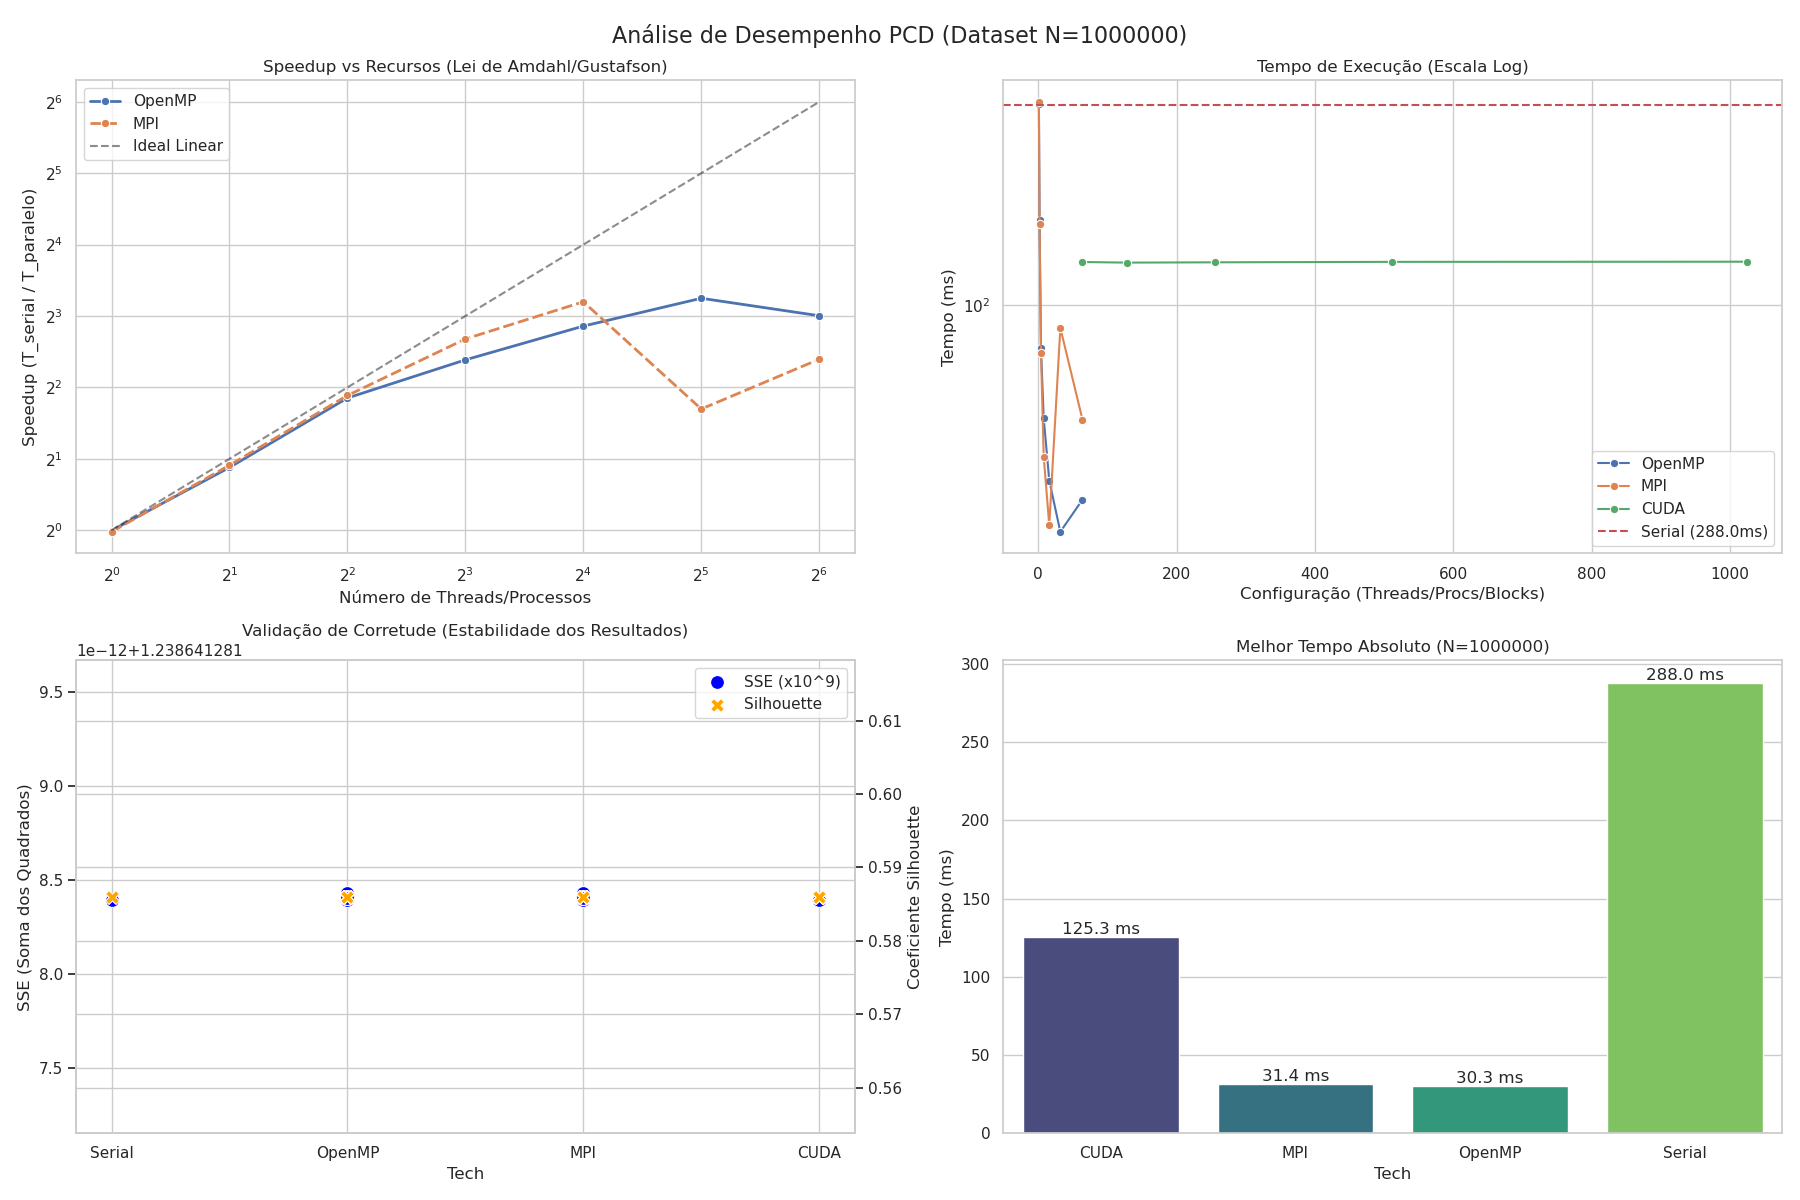
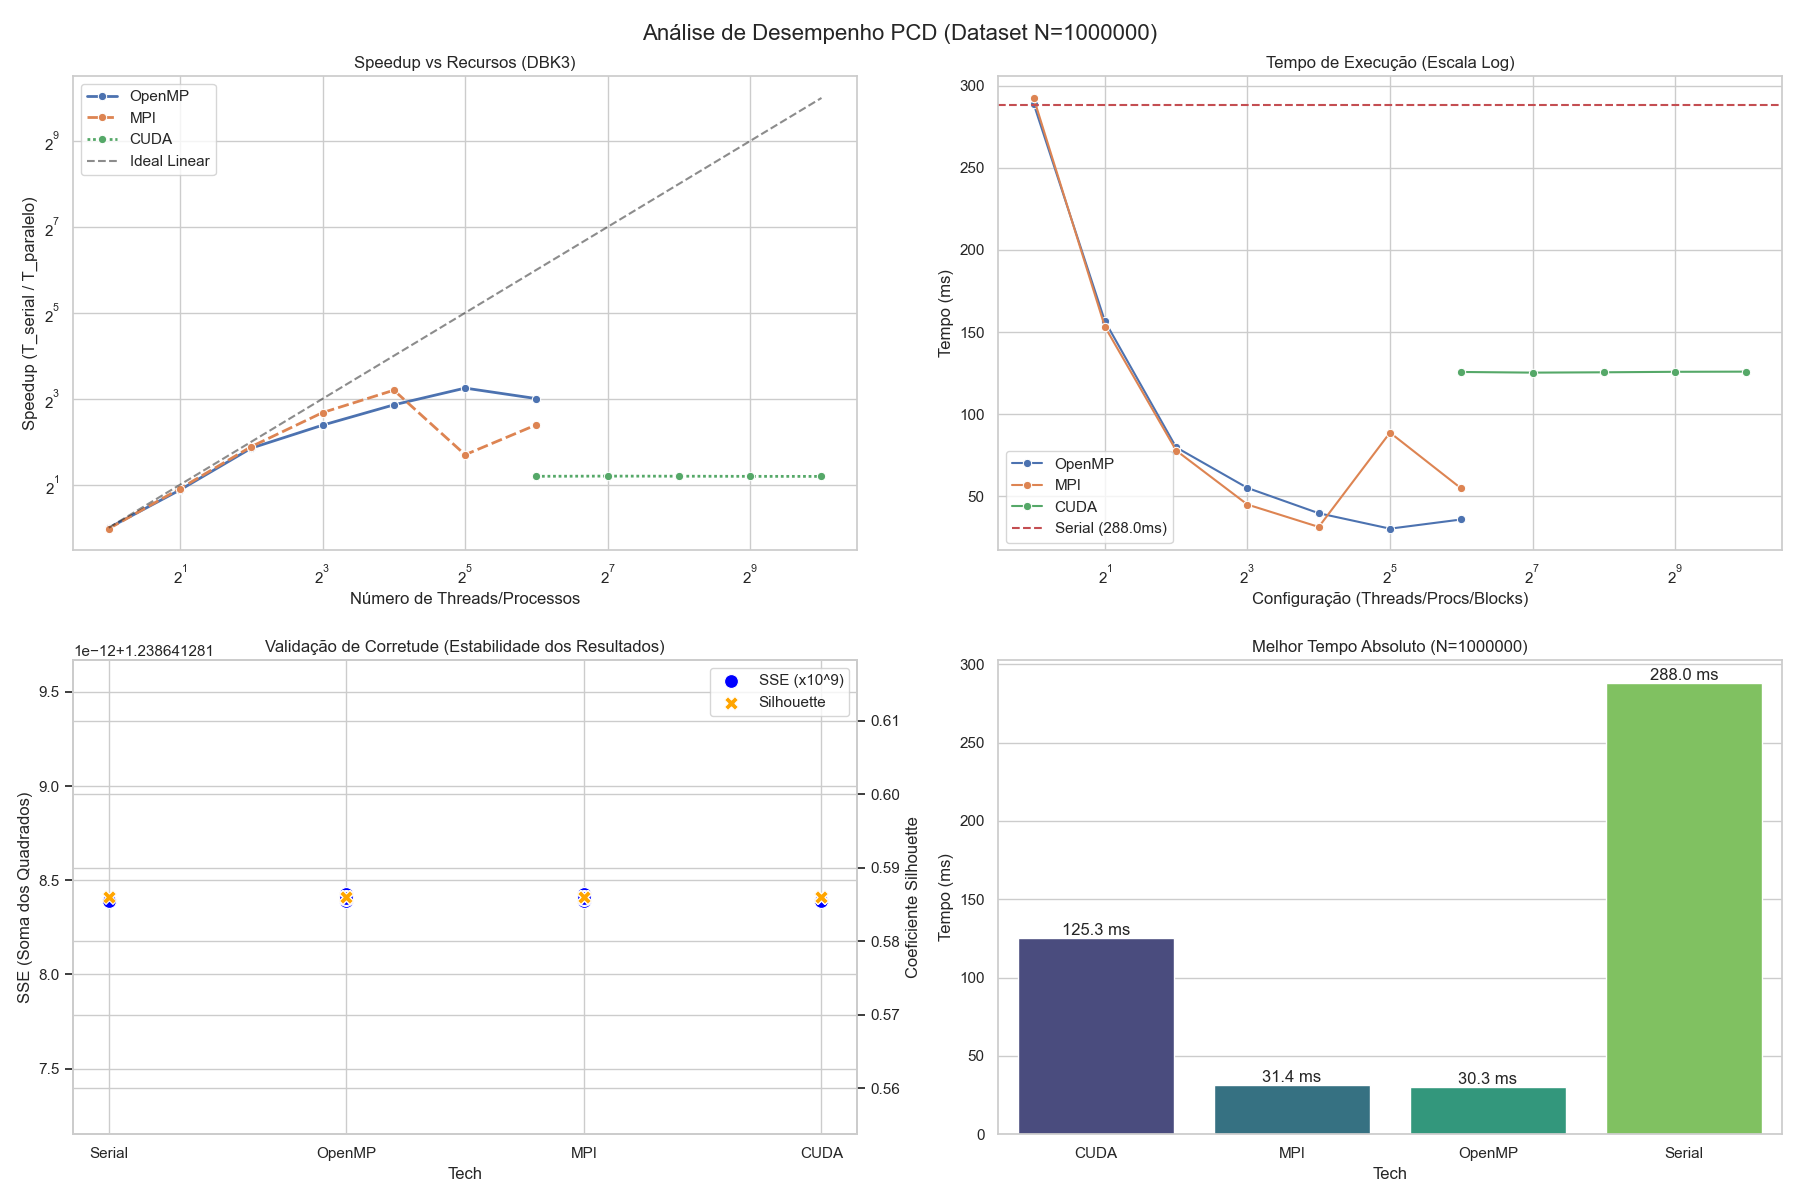
added cuda analysis and plots for overnight dataset

diff --git a/results/plot_cuda_breakdown.py b/results/plot_cuda_breakdown.py
@@ -4,7 +4,7 @@ import matplotlib.pyplot as plt
 import seaborn as sns
 import numpy as np
 
-# Cole o conteúdo COMPLETO do seu arquivo txt aqui
+# Cole o conteúdo COMPLETO do seu arquivo txt aqui (mesmo do plot_results_overnight.py)
 raw_data = """
 === RELATÓRIO FINAL DE EXPERIMENTOS PCD ===
 Inicio: Thu Dec 11 06:57:30 PM -03 2025
@@ -624,255 +624,131 @@ Configuração N=1000000 finalizada.
 Experimentos concluídos. Verifique results/final_results_overnight_20251211_185730.txt
 """
 
-
-def parse_report(text):
+def parse_cuda_timings(text):
+    """
+    Extrai os tempos H2D, Kernel e D2H das execuções CUDA
+    """
     data = []
-    current_n = 0
-    current_tech = None
-    current_config = 0
+    current_n = None
+    current_block = None
     
     lines = text.split('\n')
     
-    for line in lines:
+    for i, line in enumerate(lines):
         line = line.strip()
         
-        # Regex Parsers
+        # Detecta o dataset atual
         dataset_match = re.search(r"DATASET: N=(\d+)", line)
         if dataset_match:
             current_n = int(dataset_match.group(1))
             continue
-            
-        serial_match = re.search(r"-> \[SERIAL\]", line)
-        if serial_match:
-            current_tech = "Serial"
-            current_config = 1
+        
+        # Detecta o block size
+        block_match = re.search(r"Running CUDA with Block Size = (\d+)", line)
+        if block_match:
+            current_block = int(block_match.group(1))
             continue
-            
-        omp_match = re.search(r"Running OMP with (\d+) threads", line)
-        if omp_match:
-            current_tech = "OpenMP"
-            current_config = int(omp_match.group(1))
-            continue
-            
-        mpi_match = re.search(r"Running MPI with (\d+) processes", line)
-        if mpi_match:
-            current_tech = "MPI"
-            current_config = int(mpi_match.group(1))
-            continue
-            
-        cuda_match = re.search(r"Running CUDA with Block Size = (\d+)", line)
-        if cuda_match:
-            current_tech = "CUDA"
-            current_config = int(cuda_match.group(1))
-            continue
-            
-        # Extração de Métricas
-        # Padrão para SSE (comum a todos)
-        sse_match = re.search(r"SSE final: ([\d.]+)", line)
         
-        # Padrão para Tempo (Serial/OMP ficam na mesma linha ou próxima ao SSE)
-        time_simple_match = re.search(r"Tempo: ([\d.]+) ms", line)
+        # Captura os tempos (H2D, Kernel, D2H)
+        h2d_match = re.search(r"Tempo H2D \(cópias C\):\s+([\d.]+) ms", line)
+        kernel_match = re.search(r"Tempo Kernel \(GPU\):\s+([\d.]+) ms", line)
+        d2h_match = re.search(r"Tempo D2H \(cópias A\):\s+([\d.]+) ms", line)
         
-        # Padrão para Tempo MPI/CUDA (mais explícito)
-        time_full_match = re.search(r"Tempo Total K-means:\s+([\d.]+) ms", line)
-        
-        # Padrão para Silhouette
-        sil_match = re.search(r"Coeficiente silhouette médio: ([\d.]+)", line)
-        
-        # Lógica de inserção
-        # Nota: O Serial tem "Tempo: X" na linha de SSE e "Tempo: Y" na linha Silhouette.
-        # Queremos o Tempo do K-means (linha SSE)
-        
-        if sse_match:
-            sse_val = float(sse_match.group(1))
+        if h2d_match and current_n and current_block:
+            h2d_time = float(h2d_match.group(1))
             
-            # Se for Serial ou OpenMP, o tempo costuma estar nesta mesma linha
-            if current_tech in ["Serial", "OpenMP"] and time_simple_match:
-                time_val = float(time_simple_match.group(1))
-                # Silhouette geralmente vem na próxima linha, inicializamos como None
+            # Próximas linhas devem conter Kernel e D2H
+            kernel_time = None
+            d2h_time = None
+            
+            for j in range(i+1, min(i+5, len(lines))):
+                next_line = lines[j].strip()
+                if not kernel_time:
+                    km = re.search(r"Tempo Kernel \(GPU\):\s+([\d.]+) ms", next_line)
+                    if km:
+                        kernel_time = float(km.group(1))
+                if not d2h_time:
+                    dm = re.search(r"Tempo D2H \(cópias A\):\s+([\d.]+) ms", next_line)
+                    if dm:
+                        d2h_time = float(dm.group(1))
+                        
+            if kernel_time is not None and d2h_time is not None:
                 data.append({
-                    "N": current_n, "Tech": current_tech, "Config": current_config, 
-                    "Time_ms": time_val, "SSE": sse_val, "Silhouette": None
+                    'N': current_n,
+                    'BlockSize': current_block,
+                    'H2D': h2d_time,
+                    'Kernel': kernel_time,
+                    'D2H': d2h_time
                 })
-            # MPI e CUDA capturamos o SSE, mas o tempo vem depois
-            elif current_tech in ["MPI", "CUDA"]:
-                 data.append({
-                    "N": current_n, "Tech": current_tech, "Config": current_config, 
-                    "Time_ms": None, "SSE": sse_val, "Silhouette": None
-                })
-
-        # Preenchendo dados faltantes (Tempo MPI/CUDA ou Silhouette)
-        if time_full_match and current_tech in ["MPI", "CUDA"]:
-            # Atualiza o último registro adicionado
-            if data and data[-1]["Tech"] == current_tech:
-                data[-1]["Time_ms"] = float(time_full_match.group(1))
-                
-        if sil_match:
-            if data:
-                data[-1]["Silhouette"] = float(sil_match.group(1))
-
+    
     return pd.DataFrame(data)
 
-def process_data(df):
-    # Calcular Speedup
-    # Speedup = Tempo_Serial / Tempo_Paralelo (para o mesmo N)
-    df['Speedup'] = 0.0
+def plot_cuda_breakdown_with_std(df):
+    """
+    Gera 3 subplots (um por dataset) mostrando H2D, Kernel e D2H
+    com barras de erro representando o desvio padrão entre diferentes block sizes
+    """
+    sns.set_theme(style="whitegrid")
     
-    # Isolar tempos seriais
-    serial_times = df[df['Tech'] == 'Serial'].set_index('N')['Time_ms'].to_dict()
+    datasets = sorted(df['N'].unique())
+    fig, axes = plt.subplots(1, 3, figsize=(18, 6))
+    fig.suptitle('CUDA K-means: Breakdown de Tempo por Componente (H2D, Kernel, D2H)', fontsize=16)
     
-    for index, row in df.iterrows():
-        n = row['N']
-        if n in serial_times and row['Time_ms'] > 0:
-            df.at[index, 'Speedup'] = serial_times[n] / row['Time_ms']
-            
-    return df
-
-def generate_speedup_plot(df, ax):
-    subset_speedup = df[df['Tech'].isin(['OpenMP', 'MPI', 'CUDA'])]
-    
-    sns.lineplot(data=subset_speedup, x='Config', y='Speedup', hue='Tech', marker='o', style='Tech', ax=ax, linewidth=2)
-    
-    # Linha Ideal
-    min_config = subset_speedup['Config'].min()
-    max_config = subset_speedup['Config'].max()
-    ax.plot([min_config, max_config], [min_config, max_config], 'k--', alpha=0.5, label='Ideal Linear')
-    
-    ax.set_title('Speedup vs Recursos (DBK{N})'.format(N=int(np.log10(df['N'].iloc[0])-3)))
-    ax.set_xlabel('Número de Threads/Processos')
-    ax.set_ylabel('Speedup (T_serial / T_paralelo)')
-    ax.set_xscale('log', base=2)
-    ax.set_yscale('log', base=2)
-    ax.legend()
-
-def generate_execution_time_plot(df, ax):
-    serial_time = df[df['Tech'] == 'Serial']['Time_ms'].values[0]
-    
-    sns.lineplot(data=df[df['Tech'] != 'Serial'], x='Config', y='Time_ms', hue='Tech', marker='o', ax=ax)
-    ax.axhline(y=serial_time, color='r', linestyle='--', label=f'Serial ({serial_time:.1f}ms)')
-    
-    ax.set_title('Tempo de Execução (DBK{N})'.format(N=int(np.log10(df['N'].iloc[0])-3)))
-    ax.set_xlabel('Configuração (Threads/Procs/Blocks)')
-    ax.set_ylabel('Tempo (ms)')
-    ax.set_xscale('log', base=2)
-    ax.legend()
-
-def generate_correctness_plot(df, ax):
-    df['SSE_Scaled'] = df['SSE'] / 1e9
-    
-    # Criar um eixo gêmeo para mostrar Silhouette e SSE juntos
-    ax3 = ax
-    ax3_twin = ax3.twinx()
-    
-    sns.scatterplot(data=df, x='Tech', y='SSE_Scaled', color='blue', s=100, label='SSE (x10^9)', ax=ax3, legend=False)
-    sns.scatterplot(data=df, x='Tech', y='Silhouette', color='orange', marker='X', s=100, label='Silhouette', ax=ax3_twin, legend=False)
-    
-    ax3.set_title('Validação de Corretude (Estabilidade dos Resultados)')
-    ax3.set_ylabel('SSE (Soma dos Quadrados)')
-    ax3_twin.set_ylabel('Coeficiente Silhouette')
-    
-    # Ajustar legendas manuais
-    lines, labels = ax3.get_legend_handles_labels()
-    lines2, labels2 = ax3_twin.get_legend_handles_labels()
-    ax3.legend(lines + lines2, labels + labels2, loc='upper right')
-
-def generate_best_time_plot(df, ax, max_n):
-    best_times = df.loc[df.groupby('Tech')['Time_ms'].idxmin()]
-    
-    barplot = sns.barplot(data=best_times, x='Tech', y='Time_ms', hue='Tech', palette='viridis', ax=ax, legend=False)
-    ax.set_title(f'Melhor Tempo Absoluto (DBK{max_n})')
-    ax.set_ylabel('Tempo (ms)')
-    
-    # Adicionar labels nas barras
-    for container in ax.containers:
-        ax.bar_label(container, fmt='%.1f ms')
-
-def generate_plots(df):
-
-   # Imprime o gráfico para cada tamanho de dataset
-   # plt.figure(figsize=(10, 6))
-   fig, axes = plt.subplots(1, 3, figsize=(15, 6))
-   fig.suptitle('Análise de Speedup vs Recursos por Dataset', fontsize=14)
-   for i in df['N'].unique():
-      idx = int(np.log10(i)-4) 
-      sns.set_theme(style="whitegrid")
-      df_n = df[df['N'] == i].copy()
-      generate_speedup_plot(df_n, axes[idx])
-
-   plt.tight_layout()
-   plt.savefig('speedup_por_dataset.png')
-   plt.show()
-      
-
-   fig, axes = plt.subplots(1, 3, figsize=(15, 6))
-   fig.suptitle('Análise de Tempo de Execução vs Recursos por Dataset', fontsize=14)
-   for i in df['N'].unique():
-      idx = int(np.log10(i)-4) 
-      sns.set_theme(style="whitegrid")
-      df_n = df[df['N'] == i].copy()
-      generate_execution_time_plot(df_n, axes[idx])
-
-   plt.tight_layout()
-   plt.savefig('execution_time_por_dataset.png')
-   plt.show()
-
-   fig, axes = plt.subplots(1, 3, figsize=(15, 6))
-   fig.suptitle('Análise de Melhor Tempo por Dataset', fontsize=14)
-   for i in df['N'].unique():
-      idx = int(np.log10(i)-4) 
-      sns.set_theme(style="whitegrid")
-      df_n = df[df['N'] == i].copy()
-      generate_best_time_plot(df_n, axes[idx], idx)
-
-   plt.tight_layout()
-   plt.savefig('best_time_por_dataset.png')
-   plt.show()
-
-
-   # Configurações visuais
-   # sns.set_theme(style="whitegrid")
-   # # Filtro para o maior Dataset (onde a escalabilidade importa mais)
-   # max_n = df['N'].max()
-   # df_max = df[df['N'] == max_n].copy()
-   
-   # # Criar figura com subplots (2 linhas, 2 colunas)
-   # fig, axes = plt.subplots(2, 2, figsize=(18, 12))
-   # fig.suptitle(f'Análise de Desempenho PCD (Dataset N={max_n})', fontsize=16)
-
-   # # ---------------------------------------------------------
-   # # Gráfico 1: Speedup vs Recursos (OpenMP e MPI)
-   # # ---------------------------------------------------------
-   # # CUDA não entra aqui pois BlockSize não é "Core Count" linear
-   # generate_speedup_plot(df_max, axes[0, 0])
-
-   # # ---------------------------------------------------------
-   # # Gráfico 2: Tempo de Execução vs Configuração (Todas as Techs)
-   # # ---------------------------------------------------------
-   # # Aqui comparamos Serial, OpenMP, MPI e CUDA
-   # # Serial será uma linha horizontal constante
-   # generate_execution_time_plot(df_max, axes[0, 1])
-
-   # # ---------------------------------------------------------
-   # # Gráfico 3: Corretude (SSE e Silhouette)
-   # # ---------------------------------------------------------
-   # # Vamos usar um Scatter plot para mostrar que os valores não variam
-   # # Normalizar SSE para visualização (dividir por 1e9 para N=1M)
-   # generate_correctness_plot(df_max, axes[1, 0])
-
-   # # ---------------------------------------------------------
-   # # Gráfico 4: Melhor Tempo por Tecnologia (Bar Chart)
-   # # ---------------------------------------------------------
-   # # Pegar o menor tempo de cada tecnologia
-   # generate_best_time_plot(df_max, axes[1, 1], max_n)
-
-   # plt.tight_layout()
-   # plt.savefig('pcd_resultados.png')
-   # # plt.show()
+    for idx, n in enumerate(datasets):
+        df_n = df[df['N'] == n]
+        
+        # Calcula média e desvio padrão para cada componente
+        means = {
+            'H2D': df_n['H2D'].mean(),
+            'Kernel': df_n['Kernel'].mean(),
+            'D2H': df_n['D2H'].mean()
+        }
+        
+        stds = {
+            'H2D': df_n['H2D'].std(),
+            'Kernel': df_n['Kernel'].std(),
+            'D2H': df_n['D2H'].std()
+        }
+        
+        # Dados para o barplot
+        components = list(means.keys())
+        mean_values = list(means.values())
+        std_values = list(stds.values())
+        
+        # Cria o barplot com barras de erro
+        ax = axes[idx]
+        bars = ax.bar(components, mean_values, yerr=std_values, 
+                     capsize=5, alpha=0.8, color=['#2c7bb6', '#abd9e9', '#fdae61'])
+        
+        # Adiciona labels nos topos das barras
+        for bar, mean_val, std_val in zip(bars, mean_values, std_values):
+            height = bar.get_height()
+            ax.text(bar.get_x() + bar.get_width()/2., height + std_val,
+                   f'{mean_val:.2f}±{std_val:.2f}',
+                   ha='center', va='bottom', fontsize=9)
+        
+        # Formatação
+        dbk_label = int(np.log10(n) - 3)
+        ax.set_title(f'DBK{dbk_label} (N={n:,} pontos)')
+        ax.set_ylabel('Tempo (ms)')
+        ax.set_xlabel('Componente')
+        ax.grid(axis='y', alpha=0.3)
+        
+    plt.tight_layout()
+    plt.savefig('cuda_breakdown_with_std.png', dpi=300)
+    print("Gráfico salvo como 'cuda_breakdown_with_std.png'")
+    plt.show()
 
 # --- Execução Principal ---
-# df = parse_report(raw_data)
-# df = process_data(df)
-# df.to_csv("pcd_dados_processados.csv", index=False)
-df = pd.read_csv("pcd_dados_processados.csv")
-print("CSV gerado: pcd_dados_processados.csv")
-generate_plots(df)
+if __name__ == "__main__":
+    df_cuda = parse_cuda_timings(raw_data)
+    
+    if df_cuda.empty:
+        print("ERRO: Nenhum dado CUDA foi encontrado no log.")
+    else:
+        print("Dados CUDA extraídos:")
+        print(df_cuda)
+        print("\nEstatísticas por Dataset:")
+        print(df_cuda.groupby('N')[['H2D', 'Kernel', 'D2H']].agg(['mean', 'std']))
+        
+        plot_cuda_breakdown_with_std(df_cuda)
